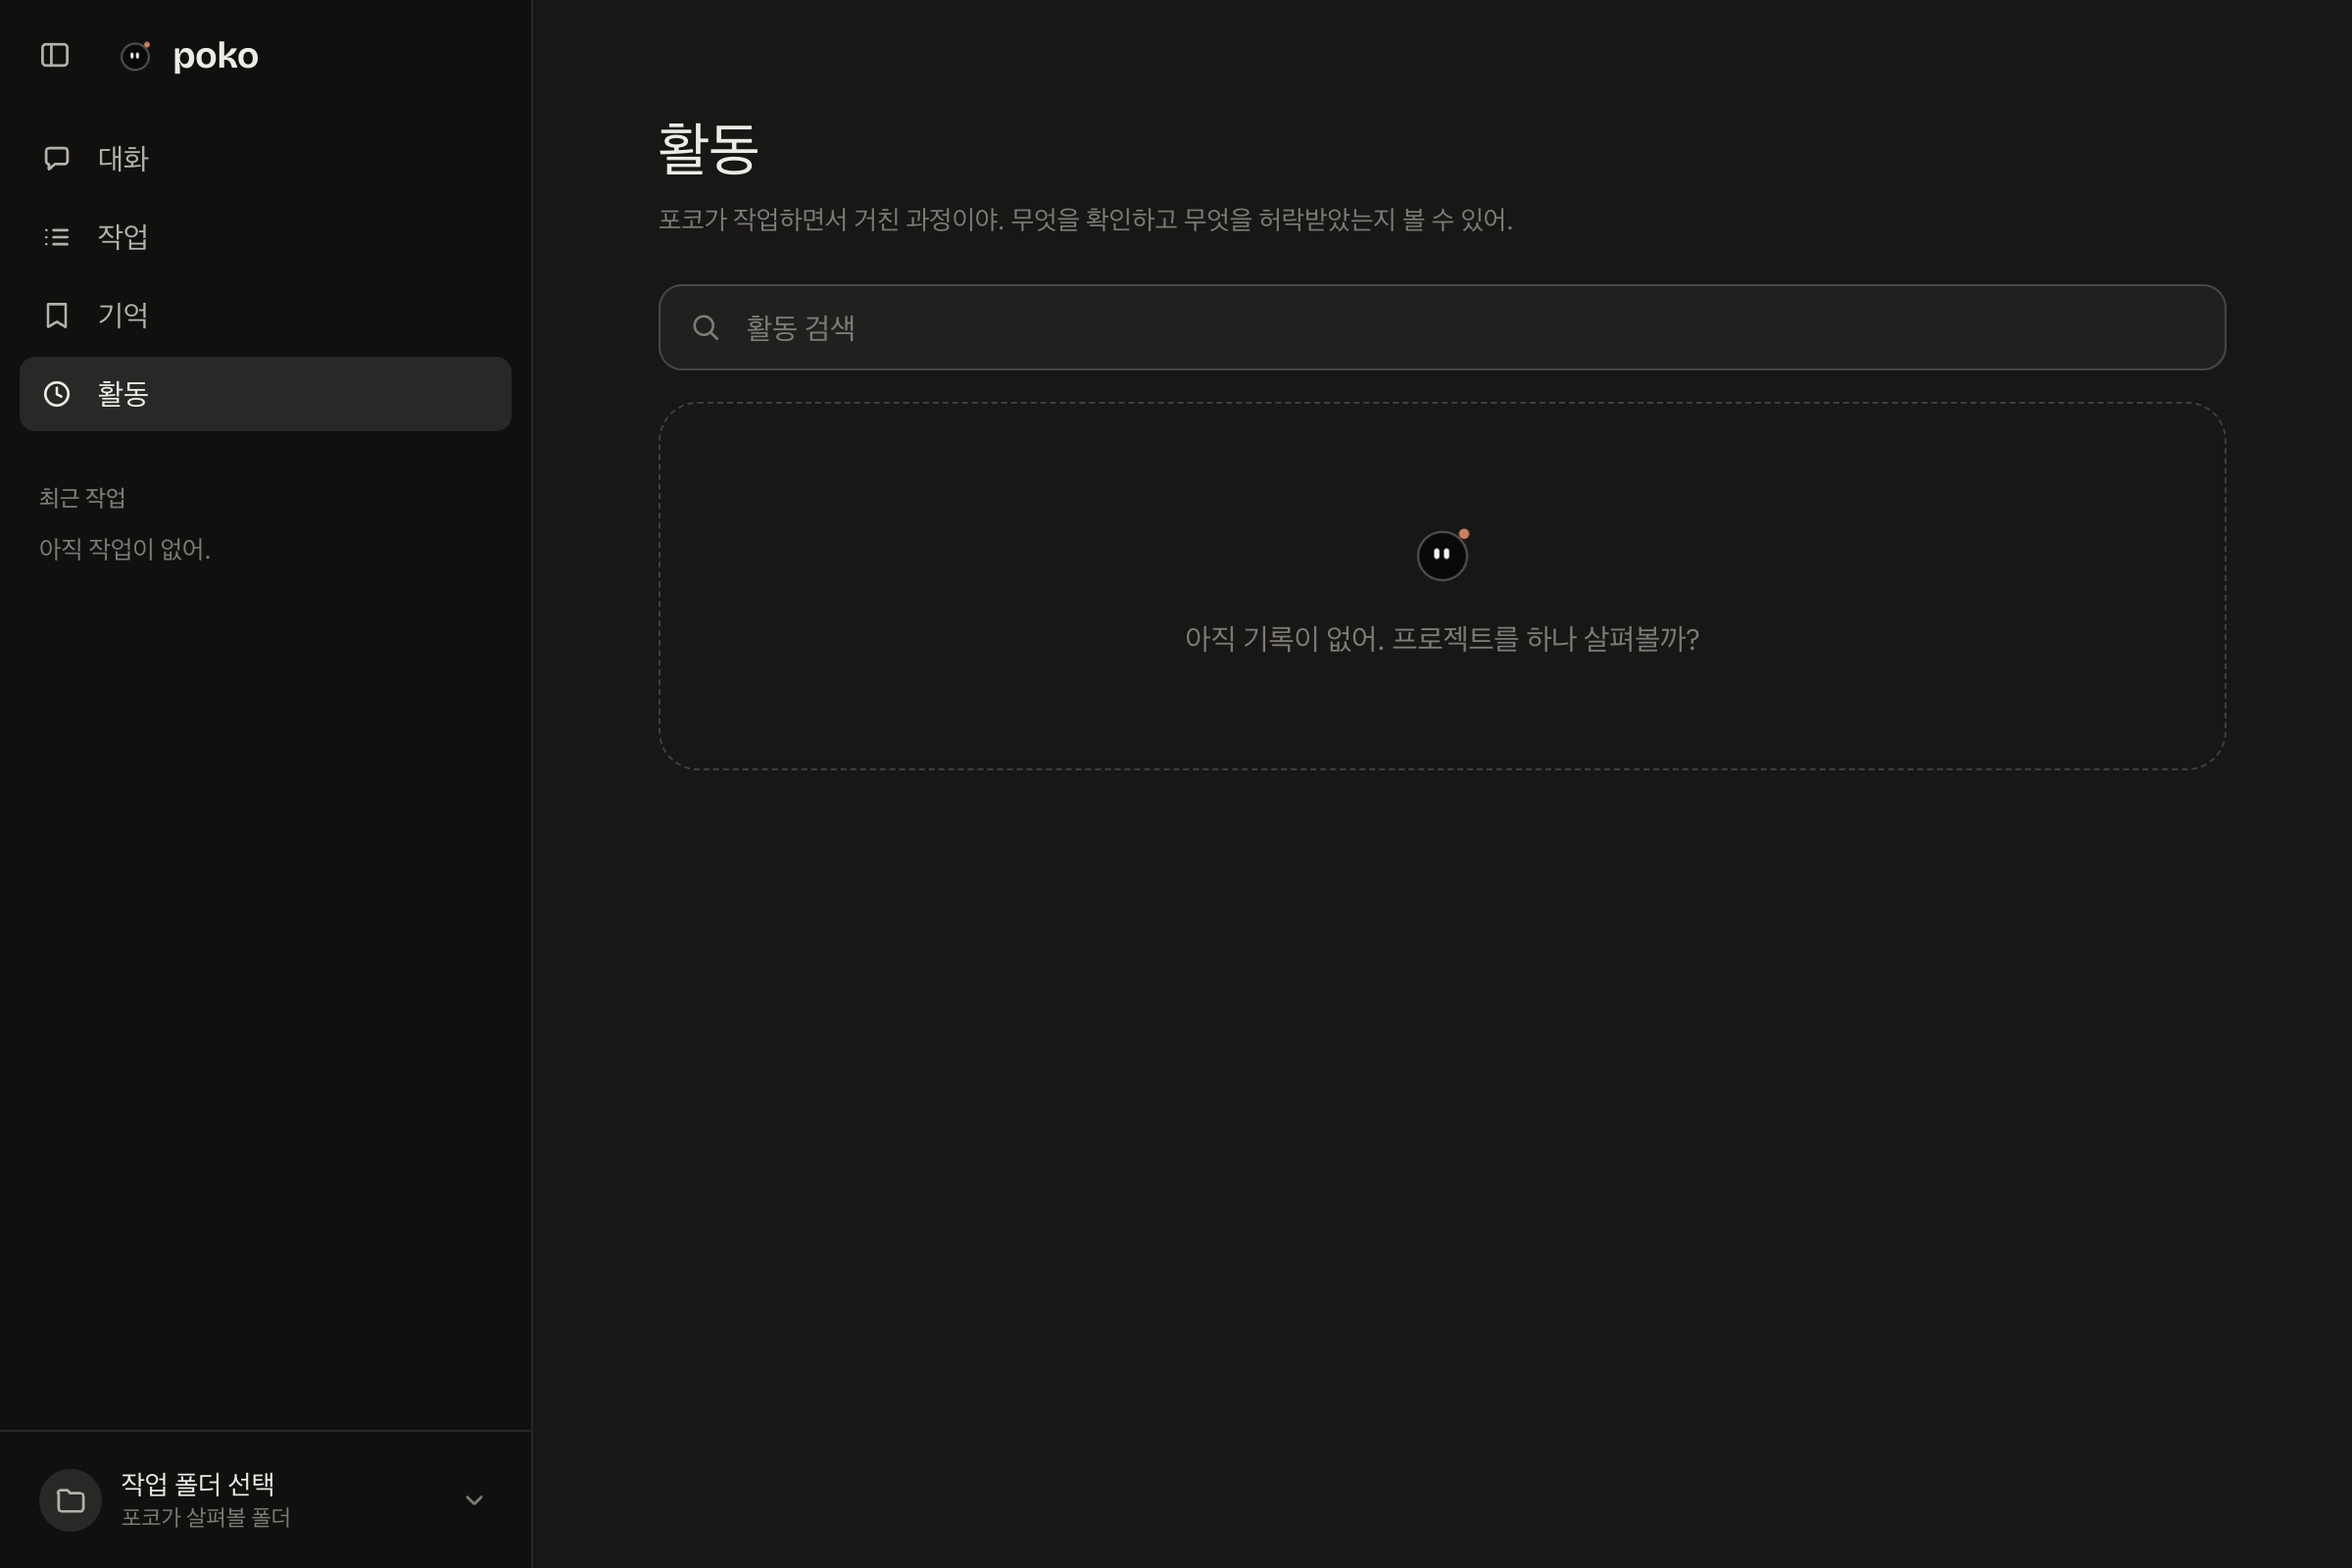
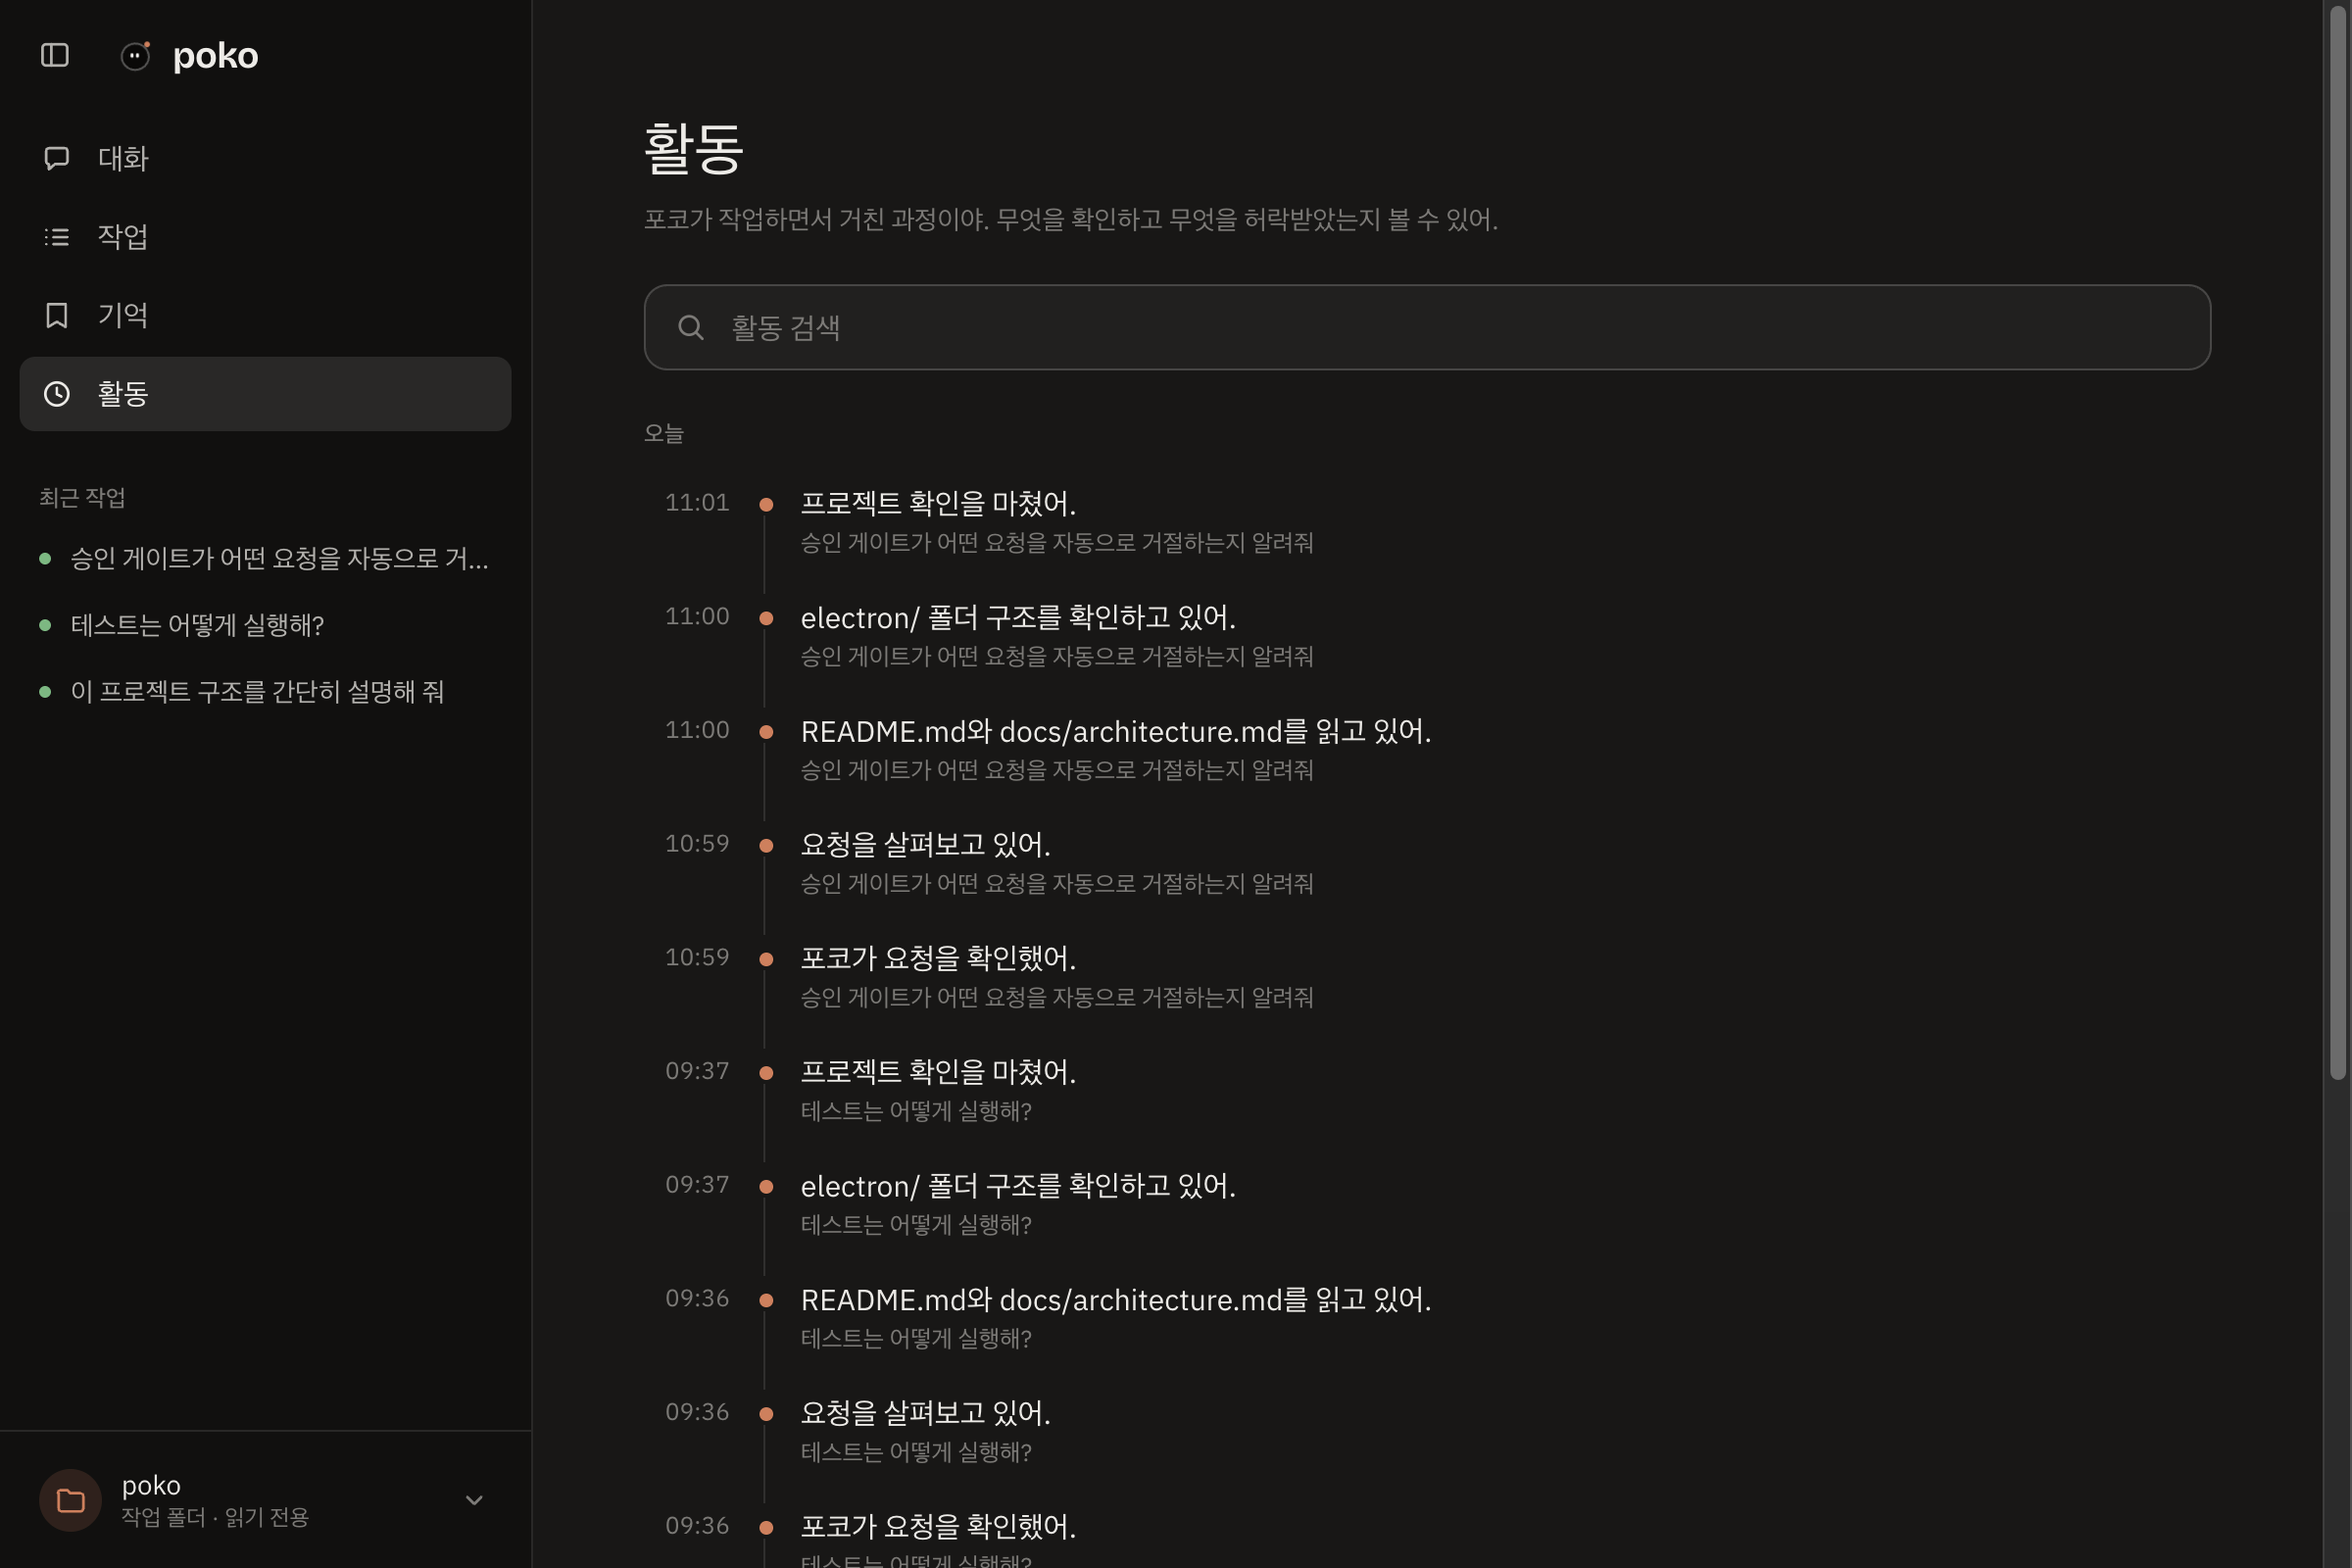
docs: show sample history in the README screenshots

diff --git a/README.md b/README.md
@@ -4,17 +4,19 @@
 
 Poko is an early-stage open-source project. It gives local coding-agent tools a friendly character-led desktop interface and keeps conversation history, tasks, and explicit memories on your computer.
 
-![Poko home screen with the character greeting and message box](docs/images/screenshots/conversation.png)
+![Poko conversation with answers about the project](docs/images/screenshots/conversation.png)
 
 ## Screenshots
 
 | Tasks | Memory |
 | --- | --- |
-| ![Empty Tasks view](docs/images/screenshots/tasks.png) | ![Empty Memory view with a New memory button](docs/images/screenshots/memory.png) |
+| ![Tasks view listing completed requests](docs/images/screenshots/tasks.png) | ![Memory view with saved preference, project, decision, and routine cards](docs/images/screenshots/memory.png) |
 
 **Activity**
 
-![Empty Activity view](docs/images/screenshots/activity.png)
+![Activity timeline showing each step Poko took](docs/images/screenshots/activity.png)
+
+Screenshots use sample data.
 
 ## Project status
 
